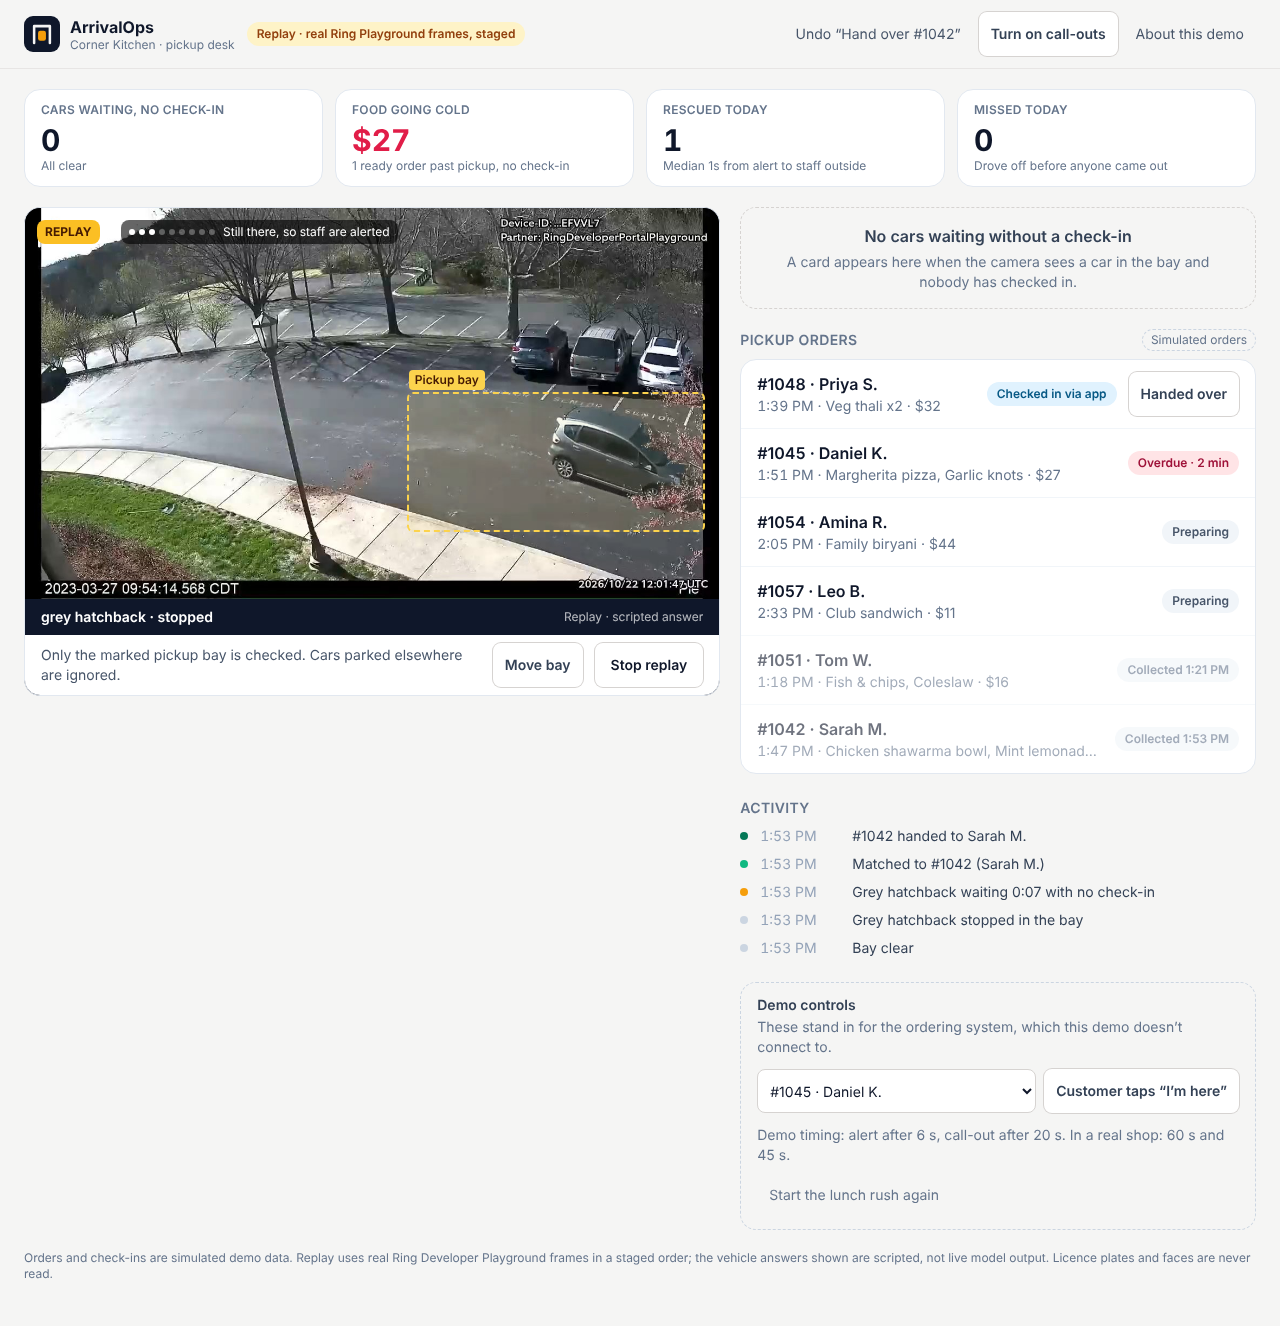
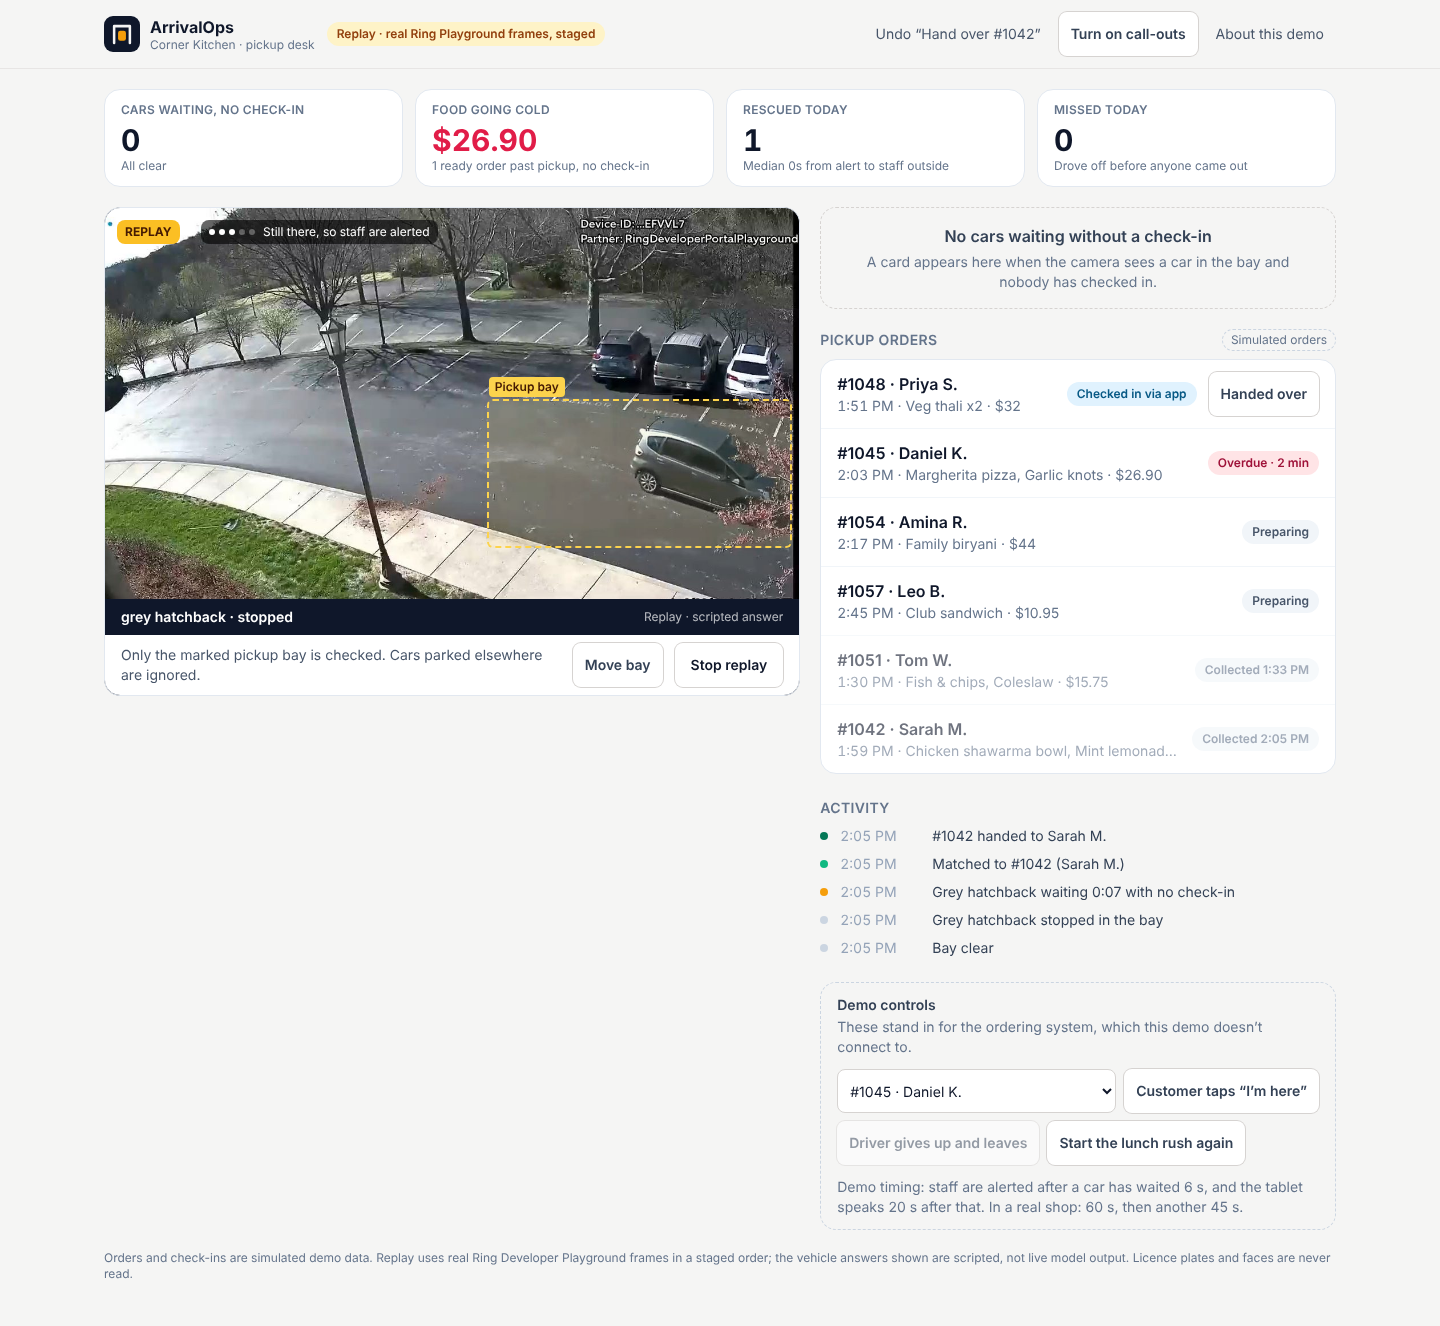
Driver waits for staff in the replay; actionable missed-pickup card
- Replay no longer ends in a drive-off; the driver waits until matched, and "Driver gives up and leaves" is a separate demo control
- Missed pickup card lists the likely orders with reasons and a call link (simulated phone numbers in the reserved 555-01xx range)
- Demo timing text states the call-out comes after the alert (60 s, then another 45 s)
- Demo control buttons styled as buttons
- Replay frames cropped to remove the burned-in bottom timestamp strip and left pillarbox; zone adjusted
- Money shows cents when not whole, so Food going cold matches the rows
- Balanced case title wrapping

Claude-Session: https://claude.ai/code/session_01XLxdMuz4CHjxyzH3kVFwLZ

diff --git a/app/page.tsx b/app/page.tsx
@@ -9,15 +9,17 @@ import { DemoControls } from './components/desk/DemoControls'
 import { Kpis } from './components/desk/Kpis'
 import { Logo } from './components/desk/Logo'
 import { PickupQueue } from './components/desk/PickupQueue'
+import { MissedCard } from './components/desk/MissedCard'
 import { WatchingCard } from './components/desk/WatchingCard'
 import { announce, useArrivalOps } from './hooks/useArrivalOps'
+import type { Order } from '@/lib/arrivalops/types'
 
 const SHOP = process.env.NEXT_PUBLIC_SHOP_NAME || 'Corner Kitchen'
 
 export default function Desk() {
   const [soundOn, setSoundOn] = useState(false)
   const [aboutOpen, setAboutOpen] = useState(false)
-  const { view, offline, notice, busy, act, refresh, replay, startReplay, stopReplay } = useArrivalOps({ soundOn })
+  const { view, offline, notice, busy, act, refresh, replay, startReplay, stopReplay, driveOff } = useArrivalOps({ soundOn })
   const [now, setNow] = useState(() => Date.now())
   const [forceReplay, setForceReplay] = useState(false)
 
@@ -43,6 +45,10 @@ export default function Desk() {
   // A customer who gave up in the last 15 minutes stays visible so someone can call them.
   const missed = view.cases.find((c) => c.status === 'left' && c.resolvedAt && now - new Date(c.resolvedAt).getTime() < 15 * 60_000)
   const missedText = missed && view.activity.find((a) => a.kind === 'left' && a.caseId === missed.id)?.text
+  const missedOrders = (missed?.candidateOrderIds ?? [])
+    .map((id) => view.orders.find((o) => o.id === id))
+    .filter((o): o is Order => Boolean(o && !o.checkIn && !o.handedOverAt))
+    .slice(0, 3)
 
   return (
     <main className="min-h-screen bg-stone-100 text-slate-900">
@@ -122,13 +128,12 @@ export default function Desk() {
               />
             ))}
             {missedText && (
-              <div className="rounded-2xl border border-rose-200 bg-rose-50 px-5 py-4">
-                <p className="text-sm font-semibold uppercase tracking-wide text-rose-700">Missed pickup</p>
-                <p className="mt-1 font-semibold text-slate-900">{missedText}.</p>
-                <p className="mt-1 text-sm text-slate-600">
-                  Their order is still on the shelf. Check the queue for who was due and give them a call.
-                </p>
-              </div>
+              <MissedCard
+                text={missedText}
+                orders={missedOrders}
+                obs={view.observations.find((o) => o.id === missed?.observationIds.at(-1))}
+                now={now}
+              />
             )}
             {!active.length && !watching.length && (
               <div className="rounded-2xl border border-dashed border-stone-300 px-5 py-4 text-center">
@@ -161,6 +166,8 @@ export default function Desk() {
                 settings={view.settings}
                 busy={busy}
                 act={act}
+                canDriveOff={active.some((c) => c.status === 'needs_review') || watching.length > 0}
+                onDriveOff={driveOff}
                 onReset={() => {
                   stopReplay()
                   act({ action: 'reset' })

diff --git a/app/components/desk/DemoControls.tsx b/app/components/desk/DemoControls.tsx
@@ -10,6 +10,8 @@ interface Props {
   settings: DeskSettings
   busy: boolean
   act: (a: ActionInput) => void
+  canDriveOff: boolean
+  onDriveOff: () => void
   onReset: () => void
 }
 
@@ -17,7 +19,7 @@ interface Props {
  * Stand-ins for the parts of a real shop this demo doesn't connect to: the ordering app's "I'm here" button
  * and a fresh lunch rush. Kept apart from the staff view so nobody mistakes them for product features.
  */
-export function DemoControls({ orders, settings, busy, act, onReset }: Props) {
+export function DemoControls({ orders, settings, busy, act, canDriveOff, onDriveOff, onReset }: Props) {
   const waiting = orders.filter((o) => !o.checkIn && !o.handedOverAt)
   const [orderId, setOrderId] = useState('')
   // Default to a customer who didn't describe their car, so one tap doesn't spoil the replay's match.
@@ -57,15 +59,30 @@ export function DemoControls({ orders, settings, busy, act, onReset }: Props) {
         </button>
       </div>
 
+      <div className="mt-2 flex flex-wrap gap-2">
+        <button
+          disabled={busy || !canDriveOff}
+          onClick={onDriveOff}
+          title={canDriveOff ? undefined : 'Play the recorded arrival first'}
+          className="min-h-11 rounded-lg bg-white px-3 font-semibold text-slate-700 ring-1 ring-stone-300 hover:bg-stone-50 disabled:opacity-50"
+        >
+          Driver gives up and leaves
+        </button>
+        <button
+          disabled={busy}
+          onClick={onReset}
+          className="min-h-11 rounded-lg bg-white px-3 font-semibold text-slate-700 ring-1 ring-stone-300 hover:bg-stone-50 disabled:opacity-50"
+        >
+          Start the lunch rush again
+        </button>
+      </div>
+
       {settings.demoTiming && (
         <p className="mt-3 text-slate-500">
-          Demo timing: alert after {settings.dwellSeconds} s, call-out after {settings.calloutSeconds} s. In a real shop:{' '}
-          {SHOP_SETTINGS.dwellSeconds} s and {SHOP_SETTINGS.calloutSeconds} s.
+          Demo timing: staff are alerted after a car has waited {settings.dwellSeconds} s, and the tablet speaks {settings.calloutSeconds} s
+          after that. In a real shop: {SHOP_SETTINGS.dwellSeconds} s, then another {SHOP_SETTINGS.calloutSeconds} s.
         </p>
       )}
-      <button disabled={busy} onClick={onReset} className="mt-2 min-h-11 rounded-lg px-3 text-slate-500 hover:bg-stone-200">
-        Start the lunch rush again
-      </button>
     </section>
   )
 }

diff --git a/app/components/desk/MissedCard.tsx b/app/components/desk/MissedCard.tsx
@@ -1,0 +1,40 @@
+'use client'
+
+import { candidateReasons } from '@/lib/arrivalops/reconcile'
+import type { Observation, Order } from '@/lib/arrivalops/types'
+import { money } from './format'
+
+/** A driver gave up. Their food is still on the shelf, so show who it most likely was and how to reach them. */
+export function MissedCard({ text, orders, obs, now }: { text: string; orders: Order[]; obs?: Observation; now: number }) {
+  return (
+    <div className="rounded-2xl border border-rose-200 bg-rose-50 px-5 py-4">
+      <p className="text-sm font-semibold uppercase tracking-wide text-rose-700">Missed pickup</p>
+      <p className="mt-1 text-balance font-semibold text-slate-900">{text}.</p>
+      {orders.length ? (
+        <>
+          <p className="mt-1 text-sm text-slate-600">Their order is still on the shelf. Most likely:</p>
+          <ul className="mt-2 space-y-2">
+            {orders.map((o) => (
+              <li key={o.id} className="flex flex-wrap items-center justify-between gap-x-3 gap-y-1 rounded-xl bg-white px-3 py-2">
+                <div className="min-w-0">
+                  <p className="font-semibold text-slate-900">
+                    #{o.code} · {o.customer} <span className="font-normal text-slate-500">· {money(o.totalCents)}</span>
+                  </p>
+                  <p className="text-xs text-slate-500">{(obs ? candidateReasons(o, obs, new Date(now)) : []).join(' · ')}</p>
+                </div>
+                {o.phone && (
+                  <a href={`tel:${o.phone.replace(/[^\d+]/g, '')}`} className="flex-none text-sm font-semibold text-slate-900 underline">
+                    Call {o.phone}
+                  </a>
+                )}
+              </li>
+            ))}
+          </ul>
+          <p className="mt-2 text-xs text-slate-500">Phone numbers are simulated demo data.</p>
+        </>
+      ) : (
+        <p className="mt-1 text-sm text-slate-600">Their order is still on the shelf.</p>
+      )}
+    </div>
+  )
+}

diff --git a/app/api/arrivalops/replay/route.ts b/app/api/arrivalops/replay/route.ts
@@ -1,5 +1,5 @@
 import { NextRequest, NextResponse } from 'next/server'
-import { DEFAULT_STEPS, REPLAY_DEVICE } from '@/lib/arrivalops/replay'
+import { DEFAULT_STEPS, DRIVE_OFF, REPLAY_DEVICE } from '@/lib/arrivalops/replay'
 import { boardFor, rememberBoard } from '@/lib/arrivalops/board'
 import { ctxNow, recordObservation, restartReplay } from '@/lib/arrivalops/store'
 import { MODEL_ID } from '@/lib/arrivalops/vision'
@@ -10,17 +10,18 @@ export const dynamic = 'force-dynamic'
 // on hosts that don't keep background timers alive.
 export async function POST(request: NextRequest) {
   const { step } = await request.json().catch(() => ({ step: -1 }))
-  const s = DEFAULT_STEPS[step]
-  if (!Number.isInteger(step) || !s) return NextResponse.json({ error: 'Unknown replay step' }, { status: 400 })
+  // 'leave' is the demo control that makes the waiting driver give up; numbers are steps of the recording.
+  const s = step === 'leave' ? DRIVE_OFF : Number.isInteger(step) ? DEFAULT_STEPS[step] : undefined
+  if (!s) return NextResponse.json({ error: 'Unknown replay step' }, { status: 400 })
   const vision = { latencyMs: 0, model: s.recorded ? `${MODEL_ID} (recorded)` : 'scripted answer', ...s.vision }
   const board = boardFor(request)
   if (step === 0) restartReplay(ctxNow(), board.boardId)
   const result = recordObservation({ ...REPLAY_DEVICE, source: 'replay', frame: s.frame }, vision, ctxNow(), board.boardId)
-  const next = DEFAULT_STEPS[step + 1]
+  const next = step === 'leave' ? undefined : DEFAULT_STEPS[step + 1]
   const res = NextResponse.json({
     ...result,
     note: s.note,
-    step,
+    step: step === 'leave' ? DEFAULT_STEPS.length - 1 : step,
     total: DEFAULT_STEPS.length,
     nextStep: next ? step + 1 : null,
     nextDelayMs: next?.delayMs ?? null,

diff --git a/lib/arrivalops/replay.ts b/lib/arrivalops/replay.ts
@@ -28,16 +28,16 @@ const step = (delayMs: number, frame: 'clear' | 'car', note: string): ReplayStep
   vision: frame === 'car' ? CAR_IN_BAY : CLEAR,
 })
 
-// About 80 seconds: the car stops, staff are alerted after the demo dwell time, the tablet calls it out if
-// nobody acts, and if the visitor still does nothing the customer gives up and drives off.
+// About 30 seconds: the car stops, staff are alerted after the demo dwell time, and the tablet calls it out
+// if nobody acts. The driver then stays put until the visitor matches them, so nobody watches the demo "fail"
+// while still reading the card. Leaving is a separate, deliberate demo control (DRIVE_OFF).
 export const DEFAULT_STEPS: ReplayStep[] = [
   step(0, 'clear', 'Pickup bay empty'),
   step(4000, 'car', 'A car pulls in. Nobody has checked in'),
   step(7000, 'car', 'Still there, so staff are alerted'),
   step(10_000, 'car', 'Driver still waiting for someone to come out'),
-  step(10_000, 'car', 'Driver still waiting for someone to come out'),
-  step(10_000, 'car', 'Driver still waiting for someone to come out'),
-  step(10_000, 'car', 'Driver still waiting for someone to come out'),
-  step(10_000, 'car', 'Driver still waiting for someone to come out'),
-  step(10_000, 'clear', 'Nobody came out, so the driver left'),
+  step(10_000, 'car', 'Driver waiting. Match them to an order'),
 ]
+
+/** Demo control: the driver gives up and leaves, to show what a missed pickup looks like. */
+export const DRIVE_OFF: ReplayStep = step(0, 'clear', 'Nobody came out, so the driver left')

diff --git a/lib/arrivalops/replay.test.ts b/lib/arrivalops/replay.test.ts
@@ -1,7 +1,7 @@
 import { existsSync } from 'node:fs'
 import { join } from 'node:path'
 import { describe, expect, it } from 'vitest'
-import { DEFAULT_STEPS, REPLAY_DEVICE } from './replay'
+import { DEFAULT_STEPS, DRIVE_OFF, REPLAY_DEVICE } from './replay'
 import { dispatch, getState, recordObservation, restartReplay, view } from './store'
 
 describe('replay recording', () => {
@@ -33,8 +33,20 @@ describe('replay recording', () => {
     expect(view.orders.find((o) => o.id === open[0].candidateOrderIds[0])?.vehicleHint).toBe('grey hatchback')
   })
 
-  it('ends with the customer driving off if nobody comes out', () => {
+  it('keeps the driver waiting at the end, so the visitor decides what happens', () => {
     const view = play(DEFAULT_STEPS.length)
+    expect(view.cases[0].status).toBe('needs_review')
+    expect(view.metrics.missedToday).toBe(0)
+  })
+
+  it('records a missed pickup when the demo driver gives up', () => {
+    play(DEFAULT_STEPS.length)
+    const view = recordObservation(
+      { ...REPLAY_DEVICE, source: 'replay', frame: DRIVE_OFF.frame },
+      { latencyMs: 0, model: 'recorded', ...DRIVE_OFF.vision },
+      { now: new Date(Date.now() + 120_000), id: (p) => `${p}_leave` },
+      'replay-test',
+    ).view
     expect(view.cases[0].status).toBe('left')
     expect(view.metrics.missedToday).toBe(1)
   })

diff --git a/app/hooks/useArrivalOps.ts b/app/hooks/useArrivalOps.ts
@@ -121,7 +121,21 @@ export function useArrivalOps({ soundOn }: { soundOn: boolean }) {
 
   useEffect(() => stopReplay, [stopReplay])
 
-  return { view, offline, notice, busy, act, refresh, replay, startReplay, stopReplay }
+  /** Demo control: the driver in the bay gives up and drives off. */
+  const driveOff = useCallback(async () => {
+    stopReplay()
+    const res = await fetch('/api/arrivalops/replay', {
+      method: 'POST',
+      headers: { 'Content-Type': 'application/json' },
+      body: JSON.stringify({ step: 'leave' }),
+    }).catch(() => null)
+    if (!res?.ok) return showNotice('That didn’t go through. Try again.')
+    const data = await res.json()
+    setView((v) => (v ? { ...data.view, mode: v.mode } : v))
+    setReplay((r) => ({ ...r, note: data.note, step: data.step, total: data.total }))
+  }, [stopReplay, showNotice])
+
+  return { view, offline, notice, busy, act, refresh, replay, startReplay, stopReplay, driveOff }
 }
 
 /** Two-tone chime plus a spoken line, for a counter tablet that nobody is looking at. */

diff --git a/lib/arrivalops/seed.ts b/lib/arrivalops/seed.ts
@@ -26,7 +26,7 @@ const TIMING: Array<[number, boolean, boolean]> = [
 // The replay demo's timings are shortened so a visitor sees the whole story in about a minute; the desk says so.
 // Its pickup bay is the front row of the Playground lot, so the cars parked at the back are never checked.
 export const DEMO_SETTINGS: DeskSettings = {
-  zone: { x: 0.55, y: 0.47, w: 0.43, h: 0.36 },
+  zone: { x: 0.55, y: 0.49, w: 0.44, h: 0.38 },
   dwellSeconds: 6,
   calloutSeconds: 20,
   demoTiming: true,
@@ -43,6 +43,7 @@ export function seedState(now = new Date(), settings: DeskSettings = SHOP_SETTIN
       items,
       totalCents,
       vehicleHint,
+      phone: `(312) 555-01${String(1042 + i * 3).slice(2)}`, // 555-0100 to 0199 is reserved for fiction
       readyAt: at(pickup - 4),
       pickupAt: at(pickup),
       checkIn: checkedIn ? { at: at(pickup - 1), source: 'pos' } : undefined,

diff --git a/app/components/desk/CaseCard.tsx b/app/components/desk/CaseCard.tsx
@@ -86,7 +86,7 @@ export function CaseCard({ c, calloutSeconds, orders, observations, now, busy, a
           <p className="text-sm font-semibold uppercase tracking-wide text-amber-700">
             {unclear ? 'Camera unsure · please check' : 'Waiting · no check-in'}
           </p>
-          <h3 className="mt-1 text-xl font-bold leading-tight text-slate-900">{vehicleLabel(obs)} in the pickup bay</h3>
+          <h3 className="mt-1 text-balance text-xl font-bold leading-tight text-slate-900">{vehicleLabel(obs)} in the pickup bay</h3>
           <p className="mt-1 text-slate-600">
             Waiting <span className={`font-semibold tabular-nums ${urgent ? 'text-amber-700' : 'text-slate-900'}`}>{clock(waiting)}</span>
             {c.chimeAnnouncedAt && ' · called out on the counter tablet'}

diff --git a/app/components/desk/format.ts b/app/components/desk/format.ts
@@ -1,7 +1,10 @@
 const CURRENCY = process.env.NEXT_PUBLIC_CURRENCY || 'USD'
 
+// Whole amounts drop the cents ("$44"); others keep them ("$18.50"), so the tiles add up to the rows.
 export const money = (cents: number) =>
-  new Intl.NumberFormat(undefined, { style: 'currency', currency: CURRENCY, maximumFractionDigits: 0 }).format(cents / 100)
+  new Intl.NumberFormat(undefined, { style: 'currency', currency: CURRENCY, minimumFractionDigits: cents % 100 ? 2 : 0 }).format(
+    cents / 100,
+  )
 
 export function clock(seconds: number | null): string {
   if (seconds === null) return '—'

diff --git a/lib/arrivalops/types.ts b/lib/arrivalops/types.ts
@@ -11,6 +11,7 @@ export interface Order {
   readyAt: string // ISO
   pickupAt: string // promised pickup time, ISO
   vehicleHint?: string // optional, customer-provided at checkout ("grey hatchback")
+  phone?: string // from the ordering system, so staff can call a customer who left
   checkIn?: { at: string; source: CheckInSource }
   handedOverAt?: string
 }

diff --git a/README.md b/README.md
@@ -4,7 +4,7 @@
 
 A takeaway has three orders ready. A car pulls into the pickup bay, but the driver never taps "I'm here". Staff are busy, the food goes cold, and the customer phones in, annoyed, or drives off. Ordering systems like Toast and Square only know about customers who check in. **ArrivalOps handles the exception**: the shop's Ring camera notices a car waiting in the bay, ArrivalOps checks it against the ready orders that have no check-in, and staff get one clear card. They ask the driver's name, tap the order, hand it over, and the arrival-to-handover time is recorded.
 
-![Pickup desk with a car waiting and no check-in](docs/screenshots/3-case.png)
+![Pickup desk with a car waiting and no check-in](docs/screenshots/2-case.png)
 
 ## What it does
 
@@ -27,7 +27,7 @@ Every staff action can be undone, settings (bay, dwell, call-out delay) are per 
 
 ## Try it
 
-**Hosted demo (no account needed):** _link added at submission_. It opens in **Replay** mode: real frames from the Ring Developer Playground *Vehicle* stream played in a staged order (the Playground clip has no car that arrives and waits). Until recorded Bedrock answers are added, the vehicle answers in replay are labelled “scripted answer”. Press **Play recorded arrival**. Let it run to the end to see a missed pickup, or press **Play again** and match the driver to their order. Each visitor gets their own board, and the **Demo controls** panel stands in for the ordering system (a customer tapping "I'm here", restarting the lunch rush). Demo timings are shortened (6 s dwell, 20 s call-out) and say so on screen.
+**Hosted demo (no account needed):** _link added at submission_. It opens in **Replay** mode: real frames from the Ring Developer Playground *Vehicle* stream played in a staged order (the Playground clip has no car that arrives and waits). Until recorded Bedrock answers are added, the vehicle answers in replay are labelled “scripted answer”. Press **Play recorded arrival**. The driver waits until you match them to their order. To see a missed pickup instead, press **Driver gives up and leaves** in Demo controls. Each visitor gets their own board, and the **Demo controls** panel stands in for the ordering system (a customer tapping "I'm here", restarting the lunch rush). Demo timings are shortened (6 s dwell, 20 s call-out) and say so on screen.
 
 **Run it yourself:**
 
